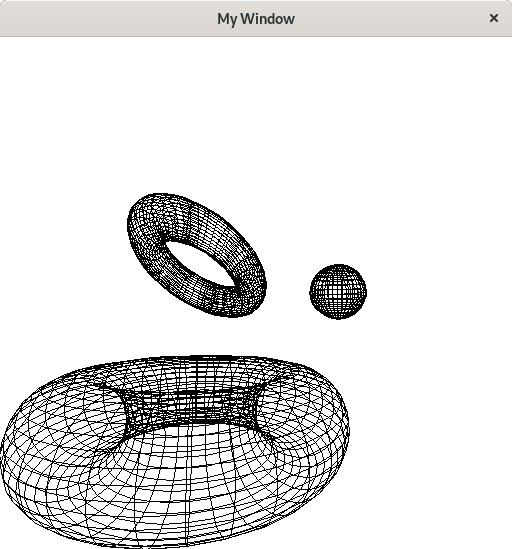
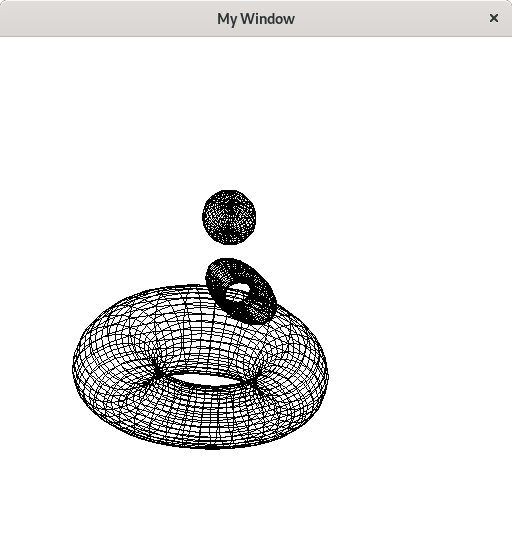
updated photos and camera positions

Changed region(s): [[0.0, 0.3406, 0.6875, 1.0], [0.5938, 0.4645, 0.7188, 0.5883]]

diff --git a/src/main.cpp b/src/main.cpp
@@ -54,17 +54,17 @@ Camera getCamera1(){
 }
 
 Camera getCamera2(){
-	return Camera(Point(0.0, 150.0, 0.0), 0.0, 0.0, 5.0);
+	return Camera(Point(450.0, 150.0, -450.0), 0.0, 90.0, 0.0);
 }
 
 Camera getCamera3(){
-	return Camera(Point(0.0, 150.0, 0.0), 0.0, 5.0, 0.0);
+	return Camera(Point(0.0, 150.0, -900.0), 0.0, 180.0, 0.0);
 }
 
 Camera getCamera4(){
-	return Camera(Point(0.0, 150.0, 0.0), 5.0, 0.0, 0.0);
+	return Camera(Point(-450.0, -300.0, -600.0), 45.0, 270.0, 0.0);
 }
 
 Camera getCamera5(){
-	return Camera(Point(0.0, 150.0, 0.0), 5.0, 5.0, 0.0);
+	return Camera(Point(0.0, 400.0, 0.0), 315.0, 0.0, 0.0);
 }

diff --git a/README.md b/README.md
@@ -47,3 +47,10 @@ To assist you in this assignment, you are given a program that sets up the camer
 		return 0;
 	}
 	```
+
+## Output
+![camera1](photos/Camera1.png)
+![camera2](photos/Camera2.png)
+![camera3](photos/Camera3.png)
+![camera4](photos/Camera4.png)
+![camera5](photos/Camera5.png)
